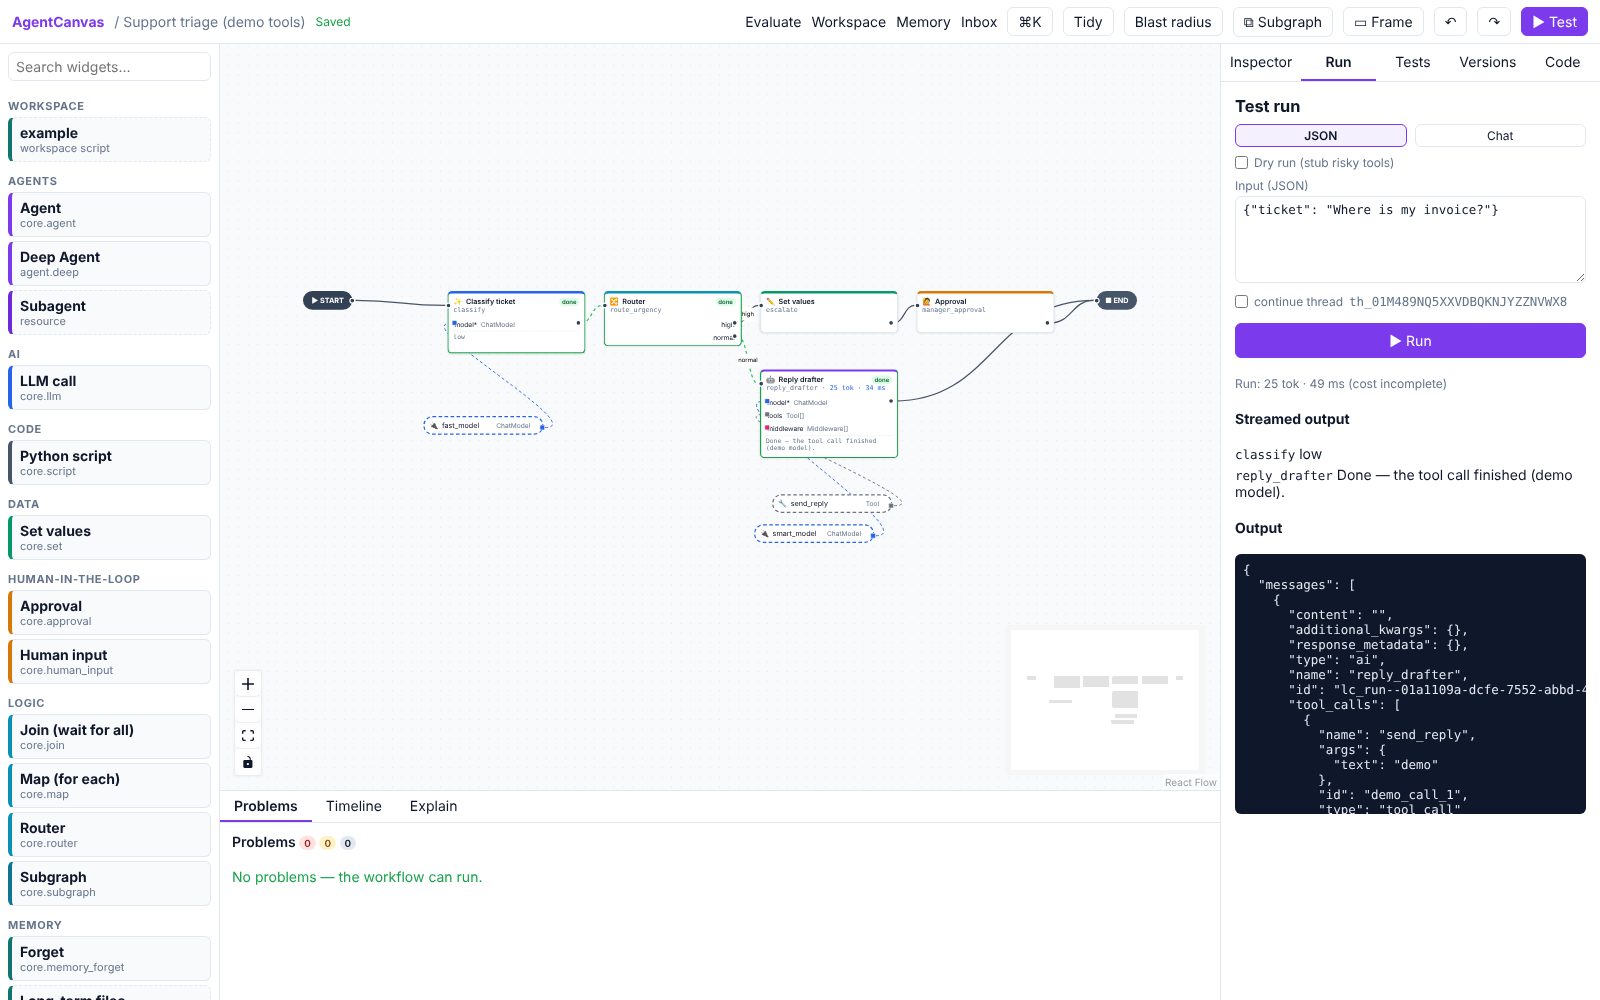
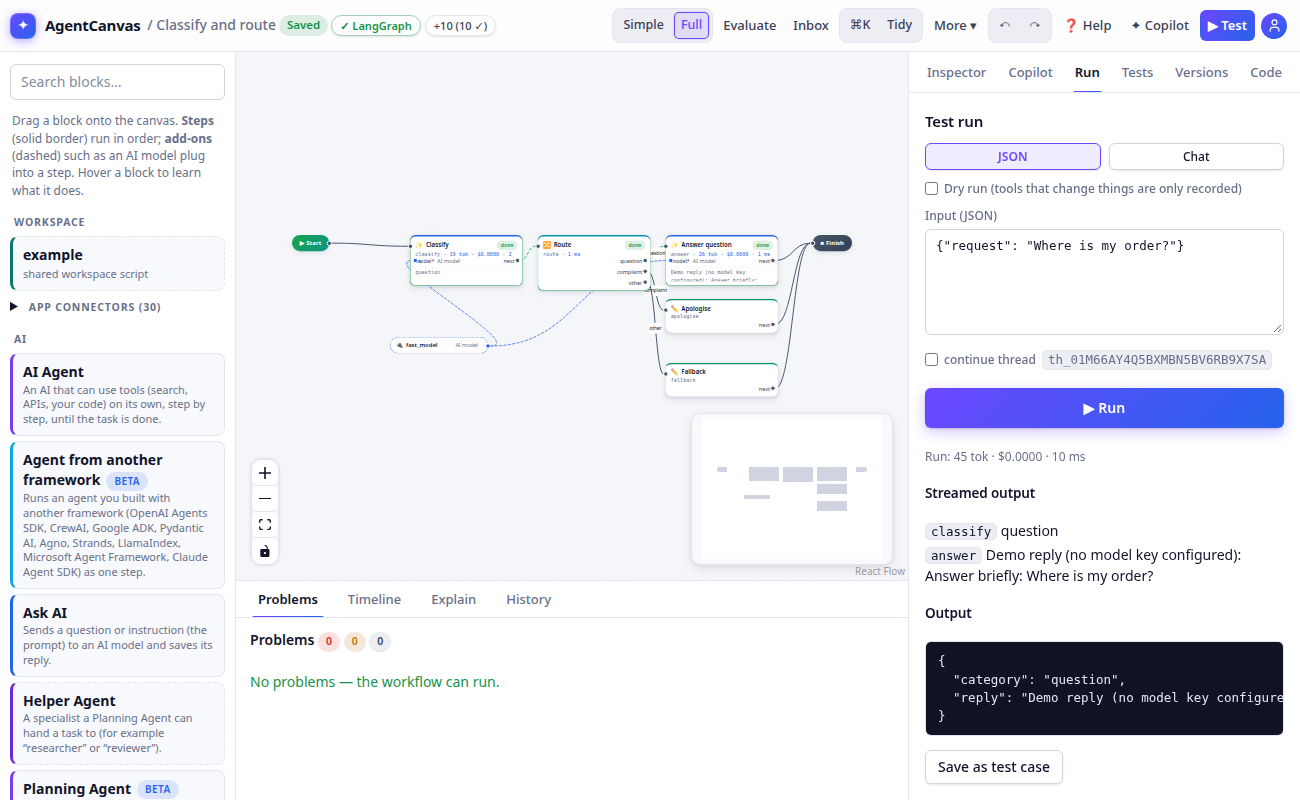
User guide: retake the eight pictures from the current app, with a script (make screenshots)

diff --git a/apps/web/e2e/screenshots.spec.ts b/apps/web/e2e/screenshots.spec.ts
@@ -1,0 +1,79 @@
+import { resolve } from "node:path";
+import { expect, test } from "./fixtures";
+
+// Retakes the pictures in docs/user-guide/img. Not part of the normal run: `make screenshots` (SCREENSHOTS=1) runs
+// it against the fake-model server, so the pictures show made-up data and no real keys or people.
+test.beforeEach(() => {
+  test.skip(!process.env.SCREENSHOTS, "set SCREENSHOTS=1 (make screenshots) to retake the user guide pictures");
+});
+
+const IMG = resolve(process.cwd(), "../../docs/user-guide/img");
+const shot = (page: import("@playwright/test").Page, name: string) =>
+  page.screenshot({ path: `${IMG}/${name}.png`, animations: "disabled" });
+
+test.use({ viewport: { width: 1300, height: 800 }, colorScheme: "light" });
+
+test("home", async ({ page }) => {
+  await page.goto("/");
+  await expect(page.getByTestId("template-classify_and_route")).toBeVisible();
+  await shot(page, "home");
+});
+
+test("editor after a run", async ({ page }) => {
+  await page.goto("/");
+  await page.getByTestId("template-classify_and_route").click();
+  await expect(page.getByTestId("node-fast_model")).toBeVisible();
+  await page.getByRole("tab", { name: "Run" }).click();
+  await page.getByLabel("run input").fill('{"request": "Where is my order?"}');
+  await page.getByRole("button", { name: "▶ Run" }).click();
+  await expect(page.getByTestId("run-output")).toBeVisible({ timeout: 15_000 });
+  await expect(page.getByTestId("run-usage")).toBeVisible();
+  await page.mouse.move(5, 5);
+  await shot(page, "editor-run");
+});
+
+test("a run waiting for approval", async ({ page }) => {
+  await page.goto("/");
+  await page.getByTestId("template-support_triage").click();
+  await expect(page.getByTestId("node-reply_drafter")).toBeVisible();
+  await page.getByRole("tab", { name: "Run" }).click();
+  await page.getByLabel("run input").fill('{"ticket": "Where is my invoice?"}');
+  await page.getByRole("button", { name: "▶ Run" }).click();
+  await expect(page.getByRole("group", { name: "Approval needed" })).toBeVisible({ timeout: 15_000 });
+  await shot(page, "approval");
+});
+
+test("evaluation", async ({ page }) => {
+  const api = page.request;
+  const wf = await (await api.post("/api/v1/projects/prj_default/workflows", { data: { name: "Order questions", template: "classify_and_route" } })).json();
+  const ds = await (await api.post(`/api/v1/workflows/${wf.id}/datasets`, { data: { name: "Customer requests" } })).json();
+  const requests = ["Where is my order?", "My parcel never came", "I want a refund", "Change my delivery address"];
+  await api.post(`/api/v1/datasets/${ds.id}/examples`, { data: { examples: requests.map((request) => ({ input: { request } })) } });
+  await api.post(`/api/v1/workflows/${wf.id}/evaluators`, { data: { name: "answered", kind: "regex", config: { channel: "reply", pattern: "." } } });
+  await page.goto(`/workflows/${wf.id}/evaluation`);
+  await page.getByRole("tab", { name: "Experiments" }).click();
+  await page.getByRole("button", { name: "▶ Run experiment" }).click();
+  await expect(page.getByTestId("results").locator("thead")).toContainText("100%", { timeout: 20_000 });
+  await expect(page.getByTestId("experiments").locator("tr", { hasText: "running" })).toHaveCount(0, { timeout: 20_000 });
+  await shot(page, "evaluation");
+});
+
+test("workspace", async ({ page }) => {
+  const put = (path: string, content: string) => page.request.put(`/api/v1/projects/prj_default/files/${path}`, { data: { content } });
+  await put("nodes/shout.py", 'def run(inputs, config=None):\n    """Upper-case the text it is given."""\n    return {"text": str(inputs.get("text", "")).upper() + "!"}\n');
+  await put("scripts/textutil.py", 'def shout(text: str) -> str:\n    return text.upper() + "!"\n');
+  await page.goto("/workspace");
+  await page.getByText("shout.py").first().click();
+  await expect(page.locator(".monaco-editor, .cm-editor, textarea").first()).toBeVisible({ timeout: 15_000 });
+  await page.waitForTimeout(800);
+  await shot(page, "workspace");
+});
+
+for (const [page_, name] of [["models", "setup"], ["members", "members"], ["policies", "policies"]] as const) {
+  test(`settings ${page_}`, async ({ page }) => {
+    await page.goto(`/settings/${page_}`);
+    await page.waitForLoadState("load");
+    await page.waitForTimeout(800);
+    await shot(page, name);
+  });
+}

diff --git a/HARDENING.md b/HARDENING.md
@@ -20,7 +20,6 @@ the item here and add anything new you find. Items keep short ids (`O-1`, `N-2`,
 | O-2 | **Try the two integrations built from reference docs against the real services** | The Claude Managed Agents export (`ant apply` bundle) and the Git round trip (GitHub pull requests) were built from the reference documentation and tested with golden files and a mock transport; nothing here could call Anthropic or GitHub | Apply a bundle with the real `ant` CLI; connect a scratch repository; fix what differs and add it to the golden files |
 | O-3 | **The `images`, `export` and Kubernetes (kind) stages of local CI** | They build both images, scan them with Trivy, deploy two exports and a kind cluster: heavy, so they run before releases, not on every push. The last full run was before this work | `scripts/ci-local.sh images` and `export` (and `make ci-full`); Trivy may flag the new dependencies (pgvector client, sqlite-vec, pypdf, python-docx) |
 | O-4 | **Conformance kit and framework smoke tests on a clean machine** | `tests/test_conformance.py` needs every framework environment, so the full suite here ran without it (`--deselect`). The `frameworks` stage of local CI, which builds those environments and covers it, passed on 2026-10-29 after the pin bumps and before the later merges (files, governance, presence) | Run `make ci-full` on a machine with the Docker images |
-| O-5 | **Screenshots in the user guide** | The eight pictures in `docs/user-guide/img/` are from v0.5 (the old Home, the removed `/setup` page, standalone Members and Policies pages). They need a running app and a browser to retake | Start `make dev-fake` and `make dev-web`, run the screenshot script, replace the files |
 | O-6 | **A person reading the product with a screen reader** | The inspector, the menus and the canvas are named and keyboard-reachable (`a11y-inspector.spec.ts`, `keyboard.spec.ts`), but only a person can say whether it is usable | A screen-reader pass; file what they find |
 
 ## 2. Decided not to build (yet), with the reason
